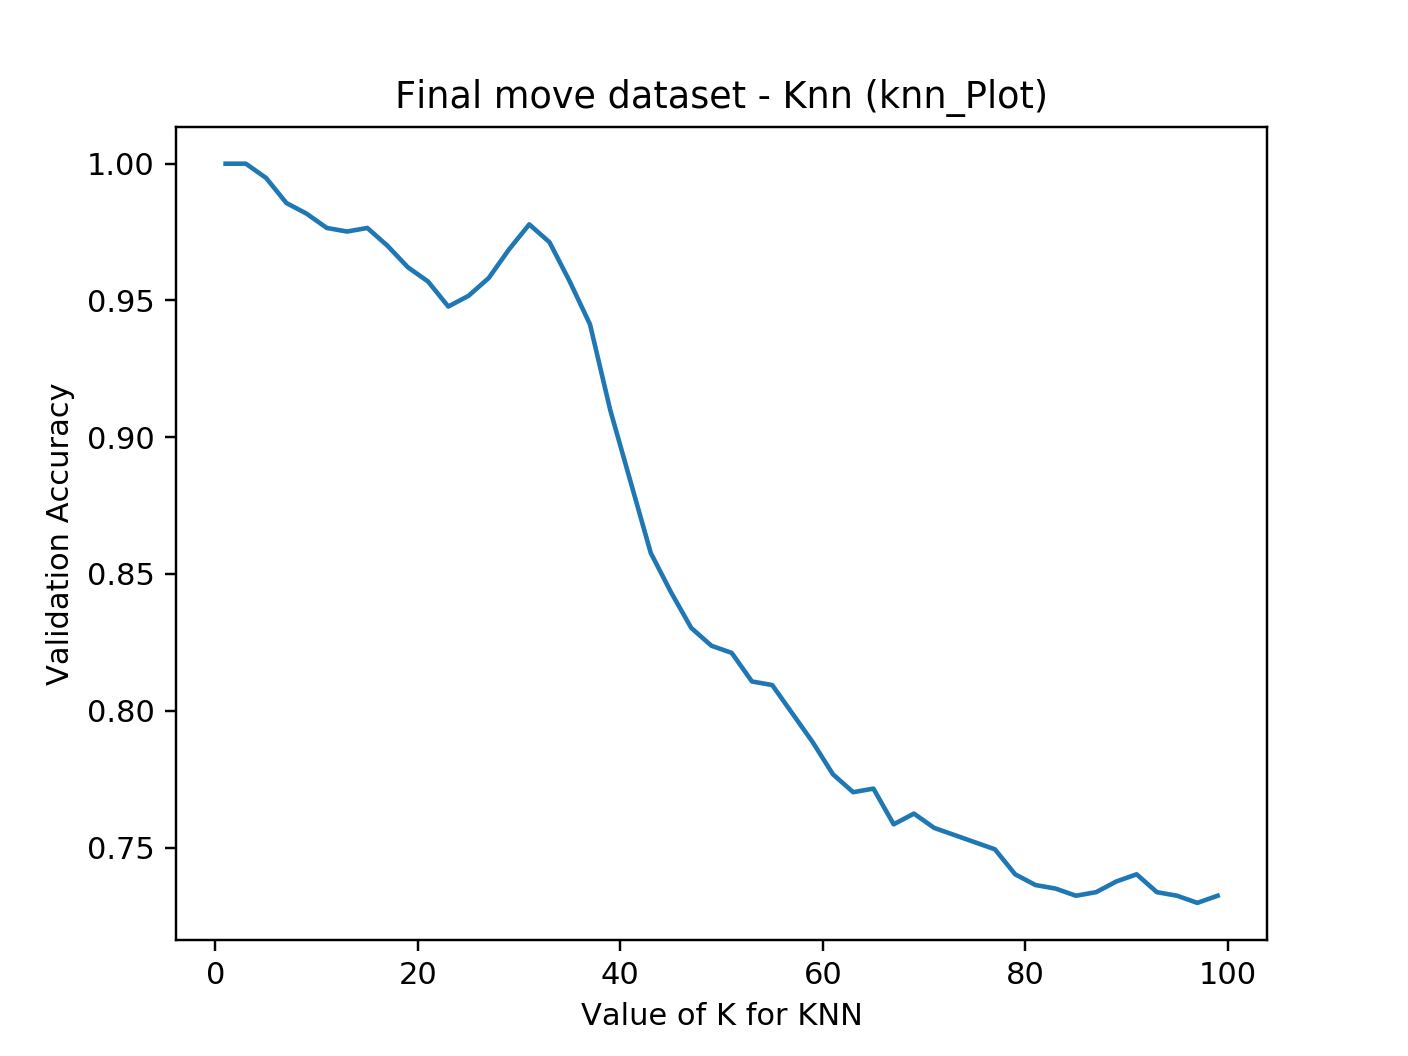
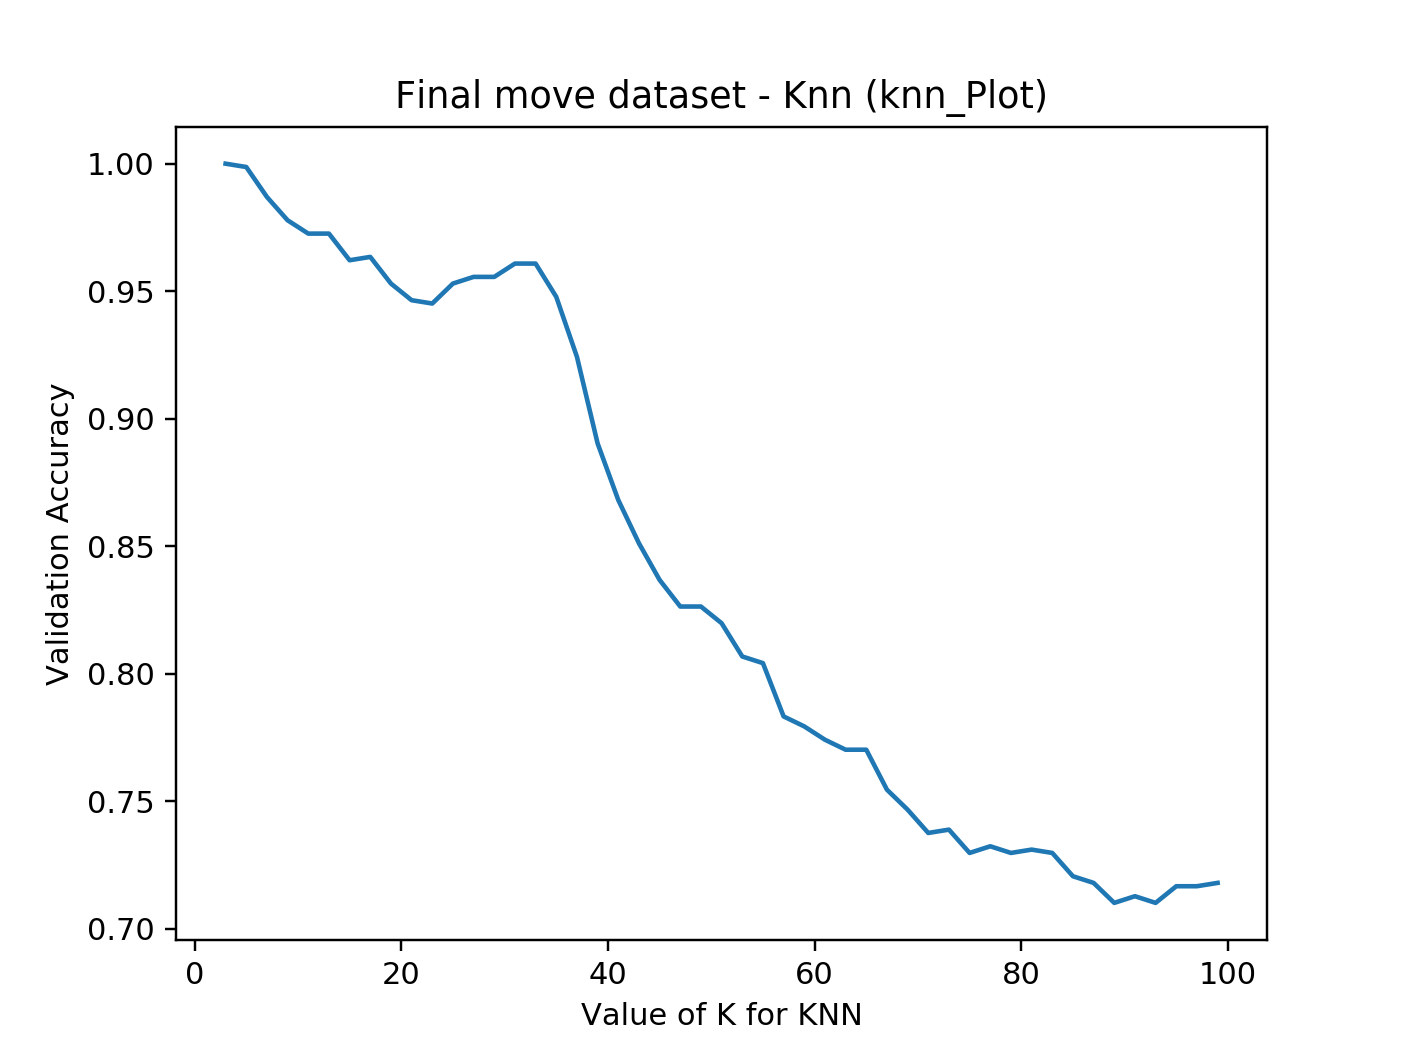
classifier

diff --git a/classifier_final.py b/classifier_final.py
@@ -169,13 +169,13 @@ class Classifier:
     def classify_using_knn(self, np_X_train, np_X_test, np_Y_train, np_Y_test, fig_title,
                            k_range, fraction_10th):
         print("Knn classifier")
-        param_grid = {"n_neighbors": np.arange(1, k_range, 2)}
+        param_grid = {"n_neighbors": np.arange(3, k_range, 2)}
         knn_gscv = GridSearchCV(KNeighborsClassifier(), param_grid, cv=10, n_jobs=-1)
         knn_gscv.fit(np_X_train, np_Y_train)
 
         best_hyperparams = knn_gscv.best_params_
         optimal_k = best_hyperparams["n_neighbors"]
-        k_ = np.arange(1, k_range, 2)
+        k_ = np.arange(3, k_range, 2)
 
         scores = knn_gscv.cv_results_['mean_test_score']
 
